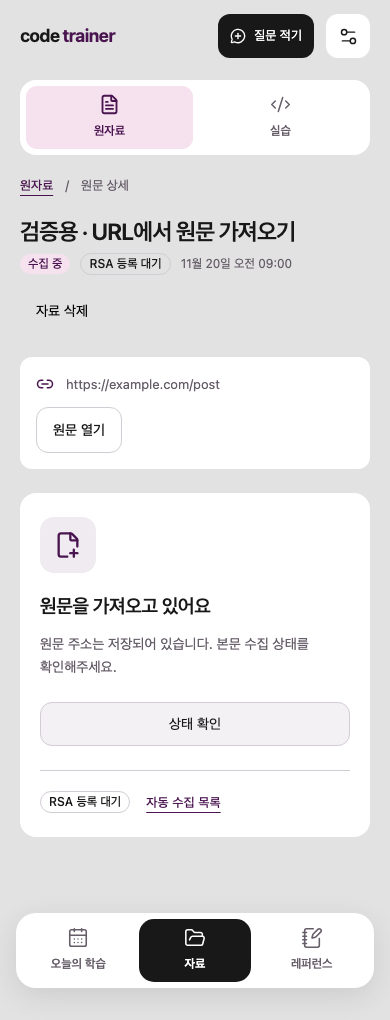
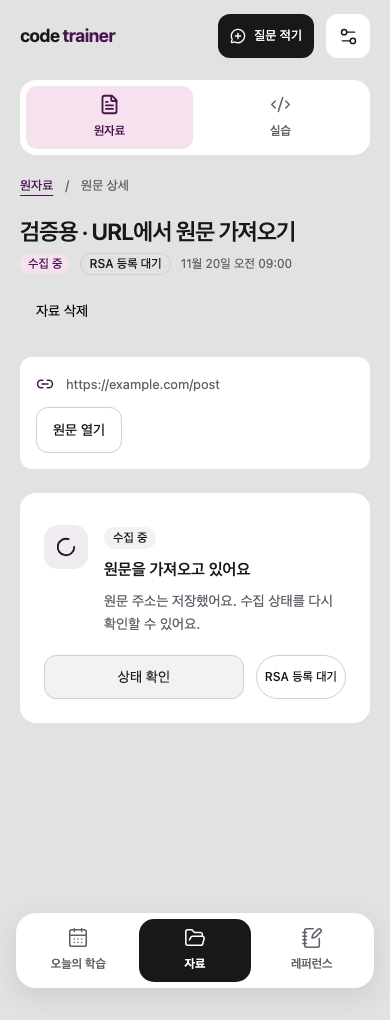
Unify loading states across learning and reference workflows

Changed region(s): [[0.0308, 0.699, 0.9538, 0.8206], [0.0923, 0.5167, 0.8615, 0.6686], [0.1231, 0.5167, 0.2154, 0.5471]]

diff --git a/frontend/src/TechnicalReferences.tsx b/frontend/src/TechnicalReferences.tsx
@@ -1,3 +1,4 @@
+import { LoadingState } from './LoadingState';
 import { FileText, Plus } from 'lucide-react';
 import { EmptyState, PageHeading } from './WorkspaceUI';
 import { libraryPage } from './libraryTypes';
@@ -43,7 +44,7 @@ function ReferenceDetail({ id }: { id: string }) {
   }
   if (editing && data) return <ReferenceEditor initial={data} onSaved={() => { setEditing(false); reload(); }} onCancel={() => setEditing(false)} />;
   return <main className="page reference-document"><div className="breadcrumb"><Link to="/technical-references">내 레퍼런스</Link></div><ErrorNotice error={error || actionError} />{error && <Button onClick={reload}>다시 불러오기</Button>}{!data && !error && <LoadingSkeleton layout="article" label="레퍼런스를 읽는 중…" />}{data && <><header className="learning-intro"><h1>{data.title}</h1><p>사용자 작성 v{data.revision} · {timestamp(data.updated_at)}</p><div className="reference-actions"><Button onClick={() => setEditing(true)}>내 설명과 근거 수정</Button><Button loading={busy || pending} disabled={busy || pending} onClick={() => void generate()}>{pending ? 'AI 설명 생성 중…' : data.ai ? 'AI 설명 갱신' : 'AI 설명 만들기'}</Button></div></header><div className="reference-layout"><article className="reference-body"><section className="reference-writing"><h2>내가 남긴 설명</h2>{data.user_body ? <Markdown language="text">{data.user_body}</Markdown> : <p className="muted">직접 작성한 설명은 아직 없습니다. AI 내용은 아래 별도 영역에 보관됩니다.</p>}</section>
-    <section className="learning-section ai-reference"><header><h2>AI가 정리한 기술 설명</h2>{data.ai_created_at && <small>{timestamp(data.ai_created_at)}</small>}</header><p className="muted">사용자 경험이나 숙달을 인증하는 기록이 아닙니다. AI가 만든 예제는 직접 실행해 검증해야 합니다.</p>{data.stale && <p className="notice" role="status">작성 내용이나 근거가 변경되었습니다. 아래 설명은 이전 버전을 바탕으로 합니다.</p>}{data.jobs.find(job => job.kind === 'reference')?.error && <ErrorNotice error={data.jobs.find(job => job.kind === 'reference')!.error} />}{pending && !data.ai && <LoadingSkeleton layout="article" label="기술 설명을 준비하는 중…" />}{data.ai ? <>{Object.entries(sections).map(([key, title]) => <section className="reference-chapter" key={key}><h3>{title}</h3><Markdown language="text">{String(data.ai?.[key] ?? '')}</Markdown></section>)}<details><summary>생성에 사용한 근거와 버전</summary>{data.ai_sources.map(source => <article className="reference-chapter" key={source.key}><h3>{source.title} · {source.revision !== null ? `v${source.revision}` : '연결 시점'}</h3><p className="muted">{source.basis}</p><Markdown language="text">{source.excerpt}</Markdown>{source.truncated && <p className="notice">긴 근거의 일부만 AI 입력에 사용했습니다.</p>}</article>)}</details></> : !pending && <p>내 설명을 저장하거나 근거를 연결한 뒤 AI 설명을 만들 수 있습니다. 사용자 작성 내용은 그대로 유지됩니다.</p>}</section></article><aside className="reference-context" aria-label="연결한 근거와 재사용">
+    <section className="learning-section ai-reference"><header><h2>AI가 정리한 기술 설명</h2>{data.ai_created_at && <small>{timestamp(data.ai_created_at)}</small>}</header><p className="muted">사용자 경험이나 숙달을 인증하는 기록이 아닙니다. AI가 만든 예제는 직접 실행해 검증해야 합니다.</p>{data.stale && <p className="notice" role="status">작성 내용이나 근거가 변경되었습니다. 아래 설명은 이전 버전을 바탕으로 합니다.</p>}{data.jobs.find(job => job.kind === 'reference')?.error && <ErrorNotice error={data.jobs.find(job => job.kind === 'reference')!.error} />}{pending && <LoadingState compact={!!data.ai} status="설명 생성 중" title="학습 근거에서 기술 설명을 정리하고 있어요" />}{data.ai ? <>{Object.entries(sections).map(([key, title]) => <section className="reference-chapter" key={key}><h3>{title}</h3><Markdown language="text">{String(data.ai?.[key] ?? '')}</Markdown></section>)}<details><summary>생성에 사용한 근거와 버전</summary>{data.ai_sources.map(source => <article className="reference-chapter" key={source.key}><h3>{source.title} · {source.revision !== null ? `v${source.revision}` : '연결 시점'}</h3><p className="muted">{source.basis}</p><Markdown language="text">{source.excerpt}</Markdown>{source.truncated && <p className="notice">긴 근거의 일부만 AI 입력에 사용했습니다.</p>}</article>)}</details></> : !pending && <p>내 설명을 저장하거나 근거를 연결한 뒤 AI 설명을 만들 수 있습니다. 사용자 작성 내용은 그대로 유지됩니다.</p>}</section></article><aside className="reference-context" aria-label="연결한 근거와 재사용">
     <section className="learning-section"><h2>연결한 학습과 질문</h2>{data.targets.length ? <ul className="reference-evidence">{data.targets.map(target => <li key={target.kind + target.id + target.unit_id}><Link className="text-link" to={target.href}>{target.title}</Link>{target.revision !== null && <small> · 연결 시 v{target.revision}</small>}</li>)}</ul> : <p className="muted">연결된 학습이 없습니다.</p>}</section>
     <ReferenceSkill id={id} revision={data.revision} jobs={data.jobs} reload={reload} /><section className="learning-section"><h2>변경 이력</h2><p className="muted">사용자 작성 버전과 AI 생성 기록을 따로 보관합니다.</p>{data.versions.map(version => <ReferenceHistory key={version.revision} id={id} revision={version.revision} createdAt={version.created_at} />)}<details><summary>AI 생성 기록</summary>{data.jobs.map(job => <AIHistory key={job.id} id={id} job={job} />)}</details></section></aside></div>
   </>}</main>;

diff --git a/frontend/src/Library.tsx b/frontend/src/Library.tsx
@@ -1,3 +1,4 @@
+import { LoadingState } from './LoadingState';
 import { useCallback, useEffect, useRef, useState } from 'react';
 import { Link, useBlocker, useNavigate, useParams, useSearchParams } from 'react-router-dom';
 import { api, errorMessage, safeSourceUrl, timestamp } from './api';
@@ -203,8 +204,8 @@ function Detail({ id }: { id: string }) {
       {!!current.archived&&<p className="notice" role="status">삭제된 자료입니다. 복원하면 다시 보관함에 표시됩니다.</p>}
       {message&&<p className="reference-state resource-heading-meta" role="status"><Badge variant="secondary">확인 완료</Badge>{message}</p>}
       {manual?<ManualResourceBody key={id} resource={current} onSaved={next=>{setResult(next);setOld(null);setManual(false);versionRequest.current++;setMessage('직접 입력한 본문을 저장했습니다.');}} onCancel={()=>setManual(false)}/>:
-      !hasBody?<section className="resource-recovery" aria-labelledby="resource-recovery-title"><span className="resource-recovery-icon" aria-hidden="true">{current.state==='failed'?<FileWarning size={28}/>:<FilePlus2 size={28}/>}</span><h2 id="resource-recovery-title">{current.state==='fetching'?'원문을 가져오고 있어요':'본문을 가져오지 못했어요'}</h2><p role={current.state==='failed'?'alert':'status'}>{current.error||'원문 주소는 저장되어 있습니다. 본문 수집 상태를 확인해주세요.'}</p><div className="resource-recovery-actions">{!current.archived&&<>{current.state==='fetching'?<Button onClick={()=>{setResult(null);reload();}}>상태 확인</Button>:<><Button className="primary" loading={busy} disabled={busy} onClick={()=>void refresh()}>다시 가져오기</Button><Button disabled={busy} onClick={()=>setManual(true)}>본문 직접 입력</Button><Link className="button" to={'/library/'+id+'/edit'}>URL 수정</Link></>}</>}</div>{current.feed_pending&&<div className="resource-feed-state"><Badge variant="outline">RSA 등록 대기</Badge><Link className="text-link" to="/inbox">자동 수집 목록</Link></div>}</section>:
-      <>{current.state==='failed'&&<section className="resource-refresh-error" role="alert"><Badge variant="secondary" className="resource-status resource-status-failed">갱신 실패</Badge><span>{current.error} 마지막 저장 본문은 유지했습니다.</span>{!current.archived&&<Button disabled={busy} onClick={()=>setManual(true)}>본문 직접 입력</Button>}</section>}
+      !hasBody&&current.state==='fetching'?<section className="resource-loading"><LoadingState compact status="수집 중" title="원문을 가져오고 있어요" description="원문 주소는 저장했어요. 수집 상태를 다시 확인할 수 있어요." /><div className="resource-recovery-actions"><Button onClick={()=>{setResult(null);reload();}}>상태 확인</Button>{current.feed_pending&&<Badge variant="outline">RSA 등록 대기</Badge>}</div></section>:!hasBody?<section className="resource-recovery" aria-labelledby="resource-recovery-title"><span className="resource-recovery-icon" aria-hidden="true">{current.state==='failed'?<FileWarning size={28}/>:<FilePlus2 size={28}/>}</span><h2 id="resource-recovery-title">{current.state==='fetching'?'원문을 가져오고 있어요':'본문을 가져오지 못했어요'}</h2><p role={current.state==='failed'?'alert':'status'}>{current.error||'원문 주소는 저장되어 있습니다. 본문 수집 상태를 확인해주세요.'}</p><div className="resource-recovery-actions">{!current.archived&&<>{current.state==='fetching'?<Button onClick={()=>{setResult(null);reload();}}>상태 확인</Button>:<><Button className="primary" loading={busy} disabled={busy} onClick={()=>void refresh()}>다시 가져오기</Button><Button disabled={busy} onClick={()=>setManual(true)}>본문 직접 입력</Button><Link className="button" to={'/library/'+id+'/edit'}>URL 수정</Link></>}</>}</div>{current.feed_pending&&<div className="resource-feed-state"><Badge variant="outline">RSA 등록 대기</Badge><Link className="text-link" to="/inbox">자동 수집 목록</Link></div>}</section>:
+      <>{current.state==='fetching'&&<LoadingState compact status="갱신 중" title="새 본문을 가져오고 있어요" description="마지막으로 저장한 본문을 읽을 수 있어요." />}{current.state==='failed'&&<section className="resource-refresh-error" role="alert"><Badge variant="secondary" className="resource-status resource-status-failed">갱신 실패</Badge><span>{current.error} 마지막 저장 본문은 유지했습니다.</span>{!current.archived&&<Button disabled={busy} onClick={()=>setManual(true)}>본문 직접 입력</Button>}</section>}
       <div className="reading-workspace resource-body-layout"><article id="resource-body" className="reference-reading reading-content"><header className="reading-document-heading"><h2>원문</h2><Label className="resource-version-select">본문 버전<NativeSelect aria-label="본문 버전" value={String(old?.revision??current.revision)} onChange={e=>{if(Number(e.target.value)===current.revision){versionRequest.current++;setOld(null);}else void showVersion(Number(e.target.value));}}>{current.versions.map(v=><option key={v.revision} value={String(v.revision)}>v{v.revision}{v.revision===current.revision?' · 최신':''} · {timestamp(v.created_at)}</option>)}</NativeSelect></Label></header>
       {old&&old.url!==current.url&&<p className="library-version-url">당시 원문 URL · {old.url}</p>}<Markdown language="" images={!!current.note_id}>{content!}</Markdown></article><aside className="reading-context" aria-label="이 자료로 탐구하기">{!current.archived&&<ResourceInterpretations resourceId={id} revision={old?.revision??current.revision} content={content??null}/>}</aside></div></>}
     </>}

diff --git a/frontend/src/ReferenceWorkspace.tsx b/frontend/src/ReferenceWorkspace.tsx
@@ -1,3 +1,4 @@
+import { LoadingState } from './LoadingState';
 import { useEffect, useRef, useState } from 'react';
 import { Link, useBlocker, useLocation, useNavigate, useParams, useSearchParams } from 'react-router-dom';
 import { Check, FileCode2, FileText, Plus, ArrowRight, History, FolderOpen } from 'lucide-react';
@@ -83,7 +84,7 @@ function ReferenceDetail({id}:{id:string}) {
   async function apply(jobId:string) {if(!window.confirm('현재 파일을 이 생성 결과로 바꿀까요? 현재 내용은 변경 이력에 남습니다.'))return;setBusy(true);setError('');try{const result=await api<Package>(`/technical-references/${id}/package/from-job`,'POST',{revision:pkg?.revision??0,job_id:jobId});update({package:result});}catch(cause){setError(errorMessage(cause));}finally{setBusy(false);}}
   return <main className="page reference-workspace"><Link className="text-link" to="/technical-references">레퍼런스</Link><ErrorNotice error={error||packageError}/>{(error||packageError)&&<Button onClick={()=>{reload();reloadPackage();}}>다시 불러오기</Button>}{!ref&&!error&&<LoadingSkeleton layout="article" label="레퍼런스를 불러오는 중…"/>}
   {ref&&<><PageHeading title={ref.title} meta={badge(pkg?.status??null)} actions={<><Link className="button" to={'/technical-references/'+id+'/legacy'}>근거·이전 설명</Link><Button loading={busy||pending} disabled={busy||pending||editing} onClick={()=>void generate()}>{pending?'Skill 생성 중':'Skill '+(pkg?'다시 생성':'생성')}</Button></>}/><ErrorNotice error={actionError}/>
-  {pending&&<div className="reference-job-state" role="status">선택한 근거로 Skill을 만들고 있습니다. 완료되면 이 화면에 표시됩니다.</div>}
+  {pending&&<LoadingState compact={!!pkg} status="Skill 생성 중" title="선택한 학습을 Skill로 정리하고 있어요" description="완료된 파일은 이곳에서 검토할 수 있어요." />}
   {!pkg&&!packageLoading&&!packageError&&!pending&&<EmptyState icon={FileCode2} title="아직 생성된 Skill이 없습니다" action={<Button className="primary" loading={busy} disabled={busy} onClick={()=>void generate()}>Skill 생성하기</Button>}/>}
   {pkg&&<>{pkg.stale&&<p className="notice" role="status">생성에 사용한 근거가 변경됐습니다. 현재 파일을 검토해주세요.</p>}
   <div className="reference-detail-layout"><section className="reference-package-panel">{editing?<PackageEditor key={id} id={id} pkg={pkg} onRefresh={value=>update({package:value})} onSaved={value=>{update({package:value});setEditing(false);}} onCancel={()=>setEditing(false)}/>:<><div className="reference-file-toolbar"><h2>Skill 파일</h2><Button disabled={busy||pending} onClick={()=>setEditing(true)}>파일 수정</Button></div><PackageFiles files={pkg.files}/></>}</section>
@@ -123,4 +124,4 @@ function PackageHistory({id,revision,createdAt}:{id:string;revision:number;creat
 function HistoryFiles({id,revision}:{id:string;revision:number}) {const {data,error}=useResource<Package>(`/technical-references/${id}/package/versions/${revision}`);return <div className="reference-history-content"><ErrorNotice error={error}/>{!data&&!error&&<LoadingSkeleton layout="article" label="변경 이력을 불러오는 중…"/>}{data&&<>{badge(data.status)}<PackageFiles files={data.files}/></>}</div>;}
 
 function GeneratedResult({id,jobId}:{id:string;jobId:string}) {const [open,setOpen]=useState(false);return <details onToggle={e=>setOpen(e.currentTarget.open)}><summary>생성 결과 보기</summary>{open&&<GeneratedFiles id={id} jobId={jobId}/>}</details>;}
-function GeneratedFiles({id,jobId}:{id:string;jobId:string}) {const {data,error}=useResource<{files:Record<string,string>}>(`/technical-references/${id}/skills/${jobId}`);return <div className="reference-generated-files"><ErrorNotice error={error}/>{data?.files&&<PackageFiles files={data.files}/>}</div>;}
+function GeneratedFiles({id,jobId}:{id:string;jobId:string}) {const {data,error}=useResource<{files:Record<string,string>}>(`/technical-references/${id}/skills/${jobId}`);return <div className="reference-generated-files"><ErrorNotice error={error}/>{!data&&!error&&<LoadingSkeleton layout="article" label="생성된 파일을 불러오는 중…"/>}{data?.files&&<PackageFiles files={data.files}/>}</div>;}

diff --git a/frontend/src/Interpretations.tsx b/frontend/src/Interpretations.tsx
@@ -1,3 +1,4 @@
+import { LoadingState } from './LoadingState';
 import { AddToReview } from './SpacedReviews';
 import { FileText } from 'lucide-react';
 import { EmptyState } from './WorkspaceUI';
@@ -136,7 +137,7 @@ function Detail({ id }: { id: string }) {
     {data && <><header className="reference-page-heading"><div><Badge variant="secondary">{data.archived ? '삭제한 해석' : states[data.state]}</Badge><h1>{data.document?.title ?? data.source_name}</h1><p>원문 v{data.revision} 기준 · {timestamp(data.created_at)}</p></div><div className="interpretation-detail-actions"><Link className="button" to={'/library/' + data.resource_id}>원문과 버전 보기</Link><Button disabled={busy || data.state === 'queued' || data.state === 'running'} onClick={() => void changeArchive(!data.archived)}>{data.archived ? '해석 복원' : '해석 자료 삭제'}</Button></div></header>
       <aside className="interpretation-provenance"><strong>{data.source_name} · 본문 v{data.revision}</strong><p>AI가 작성한 해석입니다. 인용한 원문과 비교하며 읽어보세요.{data.current_revision !== data.revision && ` 원문에는 더 최신인 v${data.current_revision}가 있습니다. 이 문서는 v${data.revision} 해석을 그대로 보존합니다.`}</p></aside>
       {data.state === 'ready' && !data.archived && <div className="interpretation-retry"><StartInterpretation resourceId={data.resource_id} revision={data.revision} retryId={data.id} /></div>}
-      {(data.state === 'queued' || data.state === 'running') && <section className="reference-empty" role="status"><Badge variant="secondary">{states[data.state]}</Badge><p>개념과 원문 근거를 정리하고 있습니다.<br />다른 화면으로 이동해도 해석 기록에서 다시 확인할 수 있습니다.</p></section>}
+      {(data.state === 'queued' || data.state === 'running') && <LoadingState status={states[data.state]} title="원문에서 개념과 근거를 정리하고 있어요" description="완료된 문서는 해석 기록에 보관돼요. 다른 화면으로 이동해도 괜찮아요." compact={!!data.document} />}
       {(data.state === 'failed' || data.state === 'interrupted') && <section className="interpretation-recovery"><p role="alert">{data.error}</p><p>같은 원문 v{data.revision}에서 이 해석 자료를 다시 생성합니다.</p>{!data.archived && <Button className="primary" loading={busy} disabled={busy || !health?.ai} onClick={() => void retry()}>{busy ? '요청 중…' : '이 해석에서 다시 시도'}</Button>}</section>}
       {data.document && <div className="reading-workspace">
         <aside className="reading-navigation" aria-label="해석 목차"><h2>이 문서에서</h2><a className="reading-link" href="#interpretation-summary">핵심 개념</a><InterpretationOutline document={data.document} /><a className="reading-link" href="#interpretation-source">원문 확인</a>{data.state === 'ready' && <a className="reading-link" href="#interpretation-next">읽은 다음</a>}<Link className="reading-link" to={'/explore?resource=' + data.resource_id}>이 자료의 해석 기록</Link></aside>

diff --git a/frontend/src/Worksheets.tsx b/frontend/src/Worksheets.tsx
@@ -1,3 +1,4 @@
+import { LoadingState } from './LoadingState';
 import { useEffect, useState } from 'react';
 import { Link, useParams, useSearchParams } from 'react-router-dom';
 import { api, errorMessage, timestamp } from './api';
@@ -61,7 +62,7 @@ function Detail({ id }: { id: string }) {
     {!data && !error && <LoadingSkeleton layout="editor" label="질문지를 불러오는 중…" />}
     {data && <><header className="reference-page-heading"><div><span className="eyebrow">{states[data.state]}</span><h1>{data.document?.title ?? data.interpretation_title}</h1><p>원문 v{data.revision} 기준 · {timestamp(data.created_at)}</p></div><Link className="button" to={'/interpretations/' + data.interpretation_id}>관련 해석 보기</Link></header>
       <aside className="interpretation-provenance"><strong>{data.source_name} · 원문 v{data.revision}</strong><p>이 질문지는 「{data.interpretation_title}」 해석을 바탕으로 AI가 만들었습니다.{data.current_revision !== data.revision && ` 원문에는 최신 v${data.current_revision}가 있지만, 이 질문지는 원래 해석에 연결되어 있습니다.`}</p><Link to={'/library/' + data.resource_id}>원문과 버전 보기</Link></aside>
-      {(data.state === 'queued' || data.state === 'running') && <section className="reference-empty" role="status"><h2>{states[data.state]}입니다.</h2><p>다른 화면으로 이동해도 실습하기에서 다시 확인할 수 있습니다.</p></section>}
+      {(data.state === 'queued' || data.state === 'running') && <LoadingState status={states[data.state]} title="실습 문제를 준비하고 있어요" description="완료되면 실습하기에서 확인할 수 있어요." />}
       {(data.state === 'failed' || data.state === 'interrupted') && <section className="interpretation-recovery"><p role="alert">{data.error}</p><p>이 기록을 보존하고 같은 해석에서 새 질문지를 만듭니다.</p><StartWorksheet interpretationId={data.interpretation_id} retryId={data.id} /></section>}
       {data.document && <><WorksheetDocument document={data.document} interpretationId={data.interpretation_id} /><Link className="button primary" to={'/worksheets/' + data.id + '/practice'}>내 답변·요약 작성하기</Link></>}
       <Link className="text-link" to={'/explore/practice?interpretation=' + data.interpretation_id}>이 해석의 질문지 기록</Link>

diff --git a/frontend/src/ReferenceSkill.tsx b/frontend/src/ReferenceSkill.tsx
@@ -1,3 +1,4 @@
+import { LoadingState } from './LoadingState';
 import { useEffect, useRef, useState } from 'react';
 import { api, errorMessage, timestamp } from './api';
 import { ErrorNotice, useResource } from './App';
@@ -21,5 +22,5 @@ function SkillPreview({ id, jobId }: { id: string; jobId: string }) {
   const { data, error, reload } = useResource<Preview>(`/technical-references/${id}/skills/${jobId}`, { preserveData: true });
   const pending = data?.state === 'queued' || data?.state === 'running';
   useEffect(() => { if (!pending) return; const timer = setInterval(reload, 2000); return () => clearInterval(timer); }, [pending, reload]);
-  return <div className="skill-preview"><ErrorNotice error={error || data?.error || ''} />{pending && <p role="status">Skill을 준비하고 있습니다…</p>}{data?.markdown && <>{data.stale && <p className="notice">이 Skill은 이전 작성 내용이나 근거를 기준으로 만들었습니다.</p>}<p>기준: 사용자 작성 v{data.reference_revision} · {timestamp(data.created_at)}</p><details><summary>SKILL.md 미리보기</summary><pre className="skill-markdown"><code>{data.markdown}</code></pre></details><a className="button primary" href={`/api/technical-references/${id}/skills/${jobId}/download`} download>확인한 Skill ZIP 다운로드</a><p className="muted">SKILL.md와 참고 문서를 포함합니다. 자동 설치나 외부 공개는 하지 않습니다.</p></>}</div>;
+  return <div className="skill-preview"><ErrorNotice error={error || data?.error || ''} />{pending && <LoadingState compact status="Skill 생성 중" title="Skill 파일을 준비하고 있어요" />}{data?.markdown && <>{data.stale && <p className="notice">이 Skill은 이전 작성 내용이나 근거를 기준으로 만들었습니다.</p>}<p>기준: 사용자 작성 v{data.reference_revision} · {timestamp(data.created_at)}</p><details><summary>SKILL.md 미리보기</summary><pre className="skill-markdown"><code>{data.markdown}</code></pre></details><a className="button primary" href={`/api/technical-references/${id}/skills/${jobId}/download`} download>확인한 Skill ZIP 다운로드</a><p className="muted">SKILL.md와 참고 문서를 포함합니다. 자동 설치나 외부 공개는 하지 않습니다.</p></>}</div>;
 }

diff --git a/frontend/src/loadingState.css b/frontend/src/loadingState.css
@@ -1,0 +1,21 @@
+.loading-state { display: flex; align-items: center; gap: 24px; padding: 36px; margin: 24px 0; border-radius: 16px; background: var(--panel); min-width: 0; }
+.loading-state-mark { display: grid; place-items: center; width: 64px; height: 64px; flex: 0 0 auto; border-radius: 20px; background: var(--surface-muted); color: var(--primary); }
+.loading-state-mark svg { width: 28px; height: 28px; animation: loading-state-spin 1.2s linear infinite; }
+.loading-state-copy { min-width: 0; }
+.loading-state-copy h3 { margin: 12px 0 0; font-size: 20px; line-height: 1.5; overflow-wrap: anywhere; }
+.loading-state-copy p { margin: 8px 0 0; max-width: 65ch; color: var(--muted); line-height: 1.7; }
+.loading-state-compact { gap: 16px; padding: 20px 0; border-radius: 0; background: transparent; }
+.loading-state-compact .loading-state-mark { width: 44px; height: 44px; border-radius: 14px; }
+.loading-state-compact .loading-state-mark svg { width: 22px; height: 22px; }
+.loading-state-compact .loading-state-copy h3 { font-size: 16px; margin-top: 8px; }
+@keyframes loading-state-spin { to { transform: rotate(360deg); } }
+@media (max-width: 600px) { .loading-state { align-items: flex-start; gap: 16px; padding: 24px 20px; } .loading-state-mark { width: 48px; height: 48px; border-radius: 16px; } .loading-state-copy h3 { font-size: 18px; } .loading-state-compact { padding: 20px 0; } }
+@media (prefers-reduced-motion: reduce) { .loading-state-mark svg { animation: none; } }
+
+.resource-loading { padding: 12px 24px 24px; margin: 24px 0; border-radius: 16px; background: var(--panel); }
+.resource-loading .loading-state { margin: 0; }
+.resource-loading .resource-recovery-actions { justify-content: flex-start; }
+
+.recommendation-loading { display: flex; flex-wrap: wrap; align-items: center; gap: 16px 24px; }
+.recommendation-loading .loading-state { flex: 1 1 280px; margin: 0; }
+.recommendation-loading > button { margin: 0 0 20px; }

diff --git a/frontend/src/App.tsx b/frontend/src/App.tsx
@@ -1,3 +1,4 @@
+import { LoadingState } from './LoadingState';
 import { GraduationCap } from 'lucide-react';
 import { EmptyState, MaterialsNavigation, PageHeading } from './WorkspaceUI';
 import { ContextQuestions } from './ContextQuestions';
@@ -123,9 +124,9 @@ export function GenerationStatus({ generation }: { generation: Generation }) {
   const validationFailures = events.slice(events.map(event => event.message).lastIndexOf('코드 검증 시작'))
     .filter(event => event.code === 'code_validation_failed');
   return <div className="generation-status">
-    <div role="status"><span className={`status-dot ${isPending(generation) ? 'pulsing' : generation.state === 'ready' ? 'online' : ''}`} /><strong>{generation.state === 'ready' ? generation.set_id ? '문제 준비가 끝났습니다' : '개념 학습 준비가 끝났습니다' : failed ? '생성을 완료하지 못했습니다' : '연습을 준비하고 있습니다'}</strong>
+    {isPending(generation) ? <LoadingState compact status={generation.state === 'queued' ? '생성 대기' : '생성 중'} title="연습을 준비하고 있어요" description={generation.stage} /> : <div role="status"><span className={`status-dot ${generation.state === 'ready' ? 'online' : ''}`} /><strong>{generation.state === 'ready' ? generation.set_id ? '문제 준비가 끝났습니다' : '개념 학습 준비가 끝났습니다' : failed ? '생성을 완료하지 못했습니다' : '연습을 준비하고 있습니다'}</strong>
       <p>{failed && events.length ? `중단 단계: ${generation.stage}${lastPhase?.phase === '단원별 세트 생성' && lastPhase.kind ? ` · ${lastPhase.kind}` : ''}` : generation.stage}</p>
-    </div>
+    </div>}
     <div className="generation-steps">{stages.map((stage, index) => <span key={stage}>{index + 1}. {stage}</span>)}</div>
     {generation.error && <ErrorNotice error={generation.error} />}
     {failed && <div className="generation-help">

diff --git a/frontend/src/Practice.tsx b/frontend/src/Practice.tsx
@@ -1,3 +1,4 @@
+import { LoadingState } from './LoadingState';
 import { AnimatedDetails } from './AnimatedDetails';
 import { LoadingSkeleton } from './LoadingSkeleton';
 import { useEffect, useMemo, useRef, useState } from "react";
@@ -448,7 +449,7 @@ function PracticeEditor({
                   <span>예시 정답 · 읽기 전용</span>
                   <Button className="text-button" onClick={() => setSolutionOpen(false)}>정답 닫기</Button>
                 </div>
-                {solutionLoading && <p role="status">정답 불러오는 중…</p>}
+                {solutionLoading && <LoadingState compact status="불러오는 중" title="정답을 불러오고 있어요" />}
                 <ErrorNotice error={solutionError} />
                 {solution && <CodeMirror
                   onCreateEditor={(view) => view.contentDOM.setAttribute("aria-label", "예시 정답 편집기")}
@@ -551,7 +552,7 @@ function PracticeEditor({
               </Label>
             ) : (
               <div className="result-content" role="status">
-                {!result ? (
+                {busy ? <LoadingState compact status="실행 중" title="코드를 실행하고 있어요" /> : !result ? (
                   <p className="console-placeholder">
                     아직 실행한 코드가 없습니다.
                     <br />
@@ -682,7 +683,7 @@ function PracticeEditor({
             </Button>
           </div>
           <section className="solution-section">
-            <Button onClick={() => void showSolution()} disabled={solutionLoading}
+            <Button loading={solutionLoading} onClick={() => void showSolution()} disabled={solutionLoading}
               aria-expanded={solutionOpen} aria-controls="exercise-solution">
               {solutionLoading ? "정답 불러오는 중…" : solutionOpen ? "정답 닫기" : "정답 보기"}
             </Button>

diff --git a/frontend/src/ReferenceReview.tsx b/frontend/src/ReferenceReview.tsx
@@ -1,3 +1,4 @@
+import { LoadingState } from './LoadingState';
 import { LoadingSkeleton } from './LoadingSkeleton';
 import { AnimatedDetails } from './AnimatedDetails';
 import { useEffect, useState } from 'react';
@@ -71,7 +72,7 @@ function ReviewConversation({ id }: { id: string }) {
         <span className="eyebrow">{turn.role === 'user' ? '나의 설명' : i === 0 ? '첫 번째 질문' : 'AI 피드백 · 꼬리 질문'}</span>
         {turn.role === 'user' ? <p className="prose">{turn.answer}</p> : <>{turn.feedback && <Markdown language="">{turn.feedback}</Markdown>}<h2>{turn.question}</h2><div className="reference-citations">{turn.citations.map(citation => { const source = review.sources.find(s => s.id === citation); return source && <a key={citation} href={'#source-' + source.id}>{source.title} · v{source.version}</a>; })}</div></>}
       </article>)}
-      {review.state === 'running' && <p className="notice" role="status">설명을 저장했습니다. 연결된 노트를 참고해 다음 질문을 준비하고 있습니다…</p>}
+      {review.state === 'running' && <LoadingState compact status="질문 생성 중" title="저장한 설명에서 다음 질문을 준비하고 있어요" />}
       <ErrorNotice error={review.error} />
       {review.state === 'failed' && <Button disabled={busy} onClick={() => void send(true)}>저장한 설명으로 질문 다시 받기</Button>}
       <form className="reference-answer" onSubmit={e => { e.preventDefault(); void send(); }}><Label htmlFor="reference-answer">내 생각을 이어서 설명해보세요</Label><Textarea id="reference-answer" value={answer} onChange={e => {

diff --git a/frontend/src/StudyRecommendations.tsx b/frontend/src/StudyRecommendations.tsx
@@ -1,3 +1,4 @@
+import { LoadingState } from './LoadingState';
 import { ArrowRight, CircleAlert, Compass, History, MousePointer2 } from 'lucide-react';
 import { SectionHeading } from './WorkspaceUI';
 import { useEffect, useState } from 'react';
@@ -23,7 +24,8 @@ export function StudyRecommendations() {
   return <section className="learning-section home-recommendations">
     <SectionHeading title="다음 학습 제안" action={hasItems ? generateButton : undefined} />
     {!data && !error && <LoadingSkeleton layout="list" label="저장된 추천을 불러오는 중…" />}
-    {!hasItems && (data || error) && <div className="recommendation-state">
+    {generating && <div className="recommendation-loading"><LoadingState compact status="제안 생성 중" title="다음에 배울 내용을 찾고 있어요" description="질문과 최근 학습의 연결을 살펴보고 있어요." />{!hasItems&&generateButton}</div>}
+    {!generating && !hasItems && (data || error) && <div className="recommendation-state">
       <div className="recommendation-state-icon" aria-hidden="true">{failure ? <CircleAlert /> : <Compass />}</div>
       <div className="recommendation-state-copy">
         <h3>{generating ? '다음에 배울 내용을 찾고 있어요' : failure ? '학습 제안을 불러오지 못했어요' : data?.stale ? '새 기록에서 다음 학습을 찾아보세요' : '남겨둔 질문, 다음 학습으로 이어가세요'}</h3>

diff --git a/frontend/src/ConceptConnection.tsx b/frontend/src/ConceptConnection.tsx
@@ -1,3 +1,4 @@
+import { LoadingState } from './LoadingState';
 import { useEffect, useState } from 'react';
 import { api, errorMessage } from './api';
 import { Markdown } from './Markdown';
@@ -32,7 +33,7 @@ export function ConceptConnection({ candidate, original, matches, selected, deci
     <div className="concept-original"><small>이번 자료의 개념</small><strong>{original.pref_label || '아래에서 개념명을 입력해주세요.'}</strong>
       {original.definition && <Markdown language="">{original.definition}</Markdown>}<span>범위 · {original.scope || '미지정'}</span>
     </div>
-    {loading && <p role="status">비슷한 이름과 별칭을 찾고 있습니다…</p>}
+    {loading && <LoadingState compact status="검색 중" title="비슷한 이름과 별칭을 찾고 있어요" />}
     {error && <p role="alert">기존 개념 검색을 완료하지 못했습니다. {error} <Button type="button" onClick={() => setRetry(v => v + 1)}>다시 검색</Button></p>}
     {!loading && !error && found.lookup === lookup && !options.length && <p className="muted">현재 추천 후보가 없습니다. 다른 이름으로 저장돼 있을 수 있으니 기존 개념 검색도 확인해주세요.</p>}
     <div className="concept-match-list">{options.map(match => <article className="concept-match" key={match.concept.id}>
